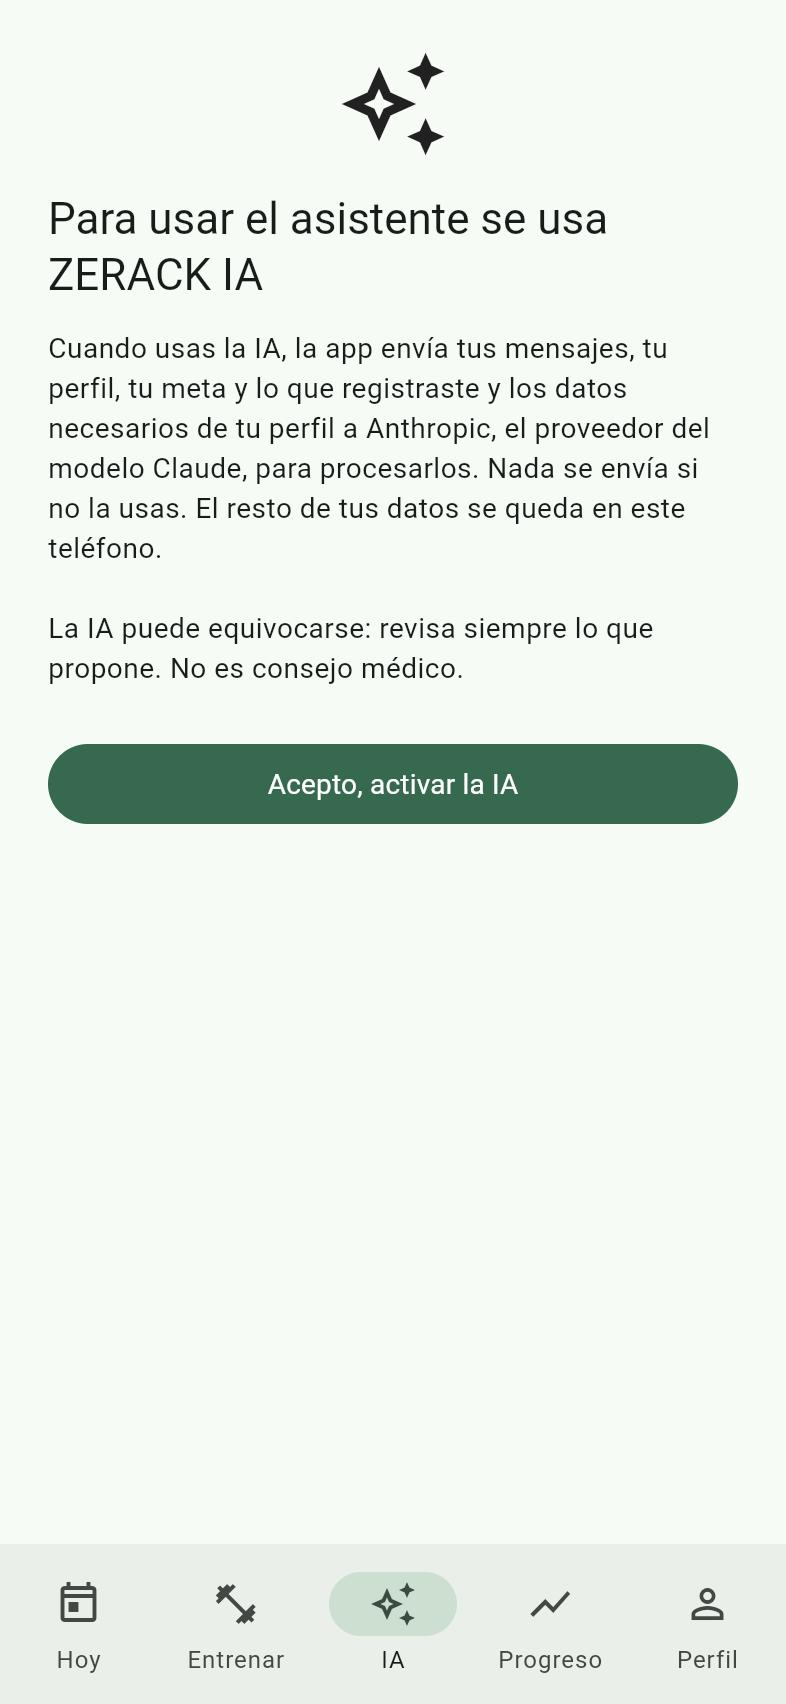
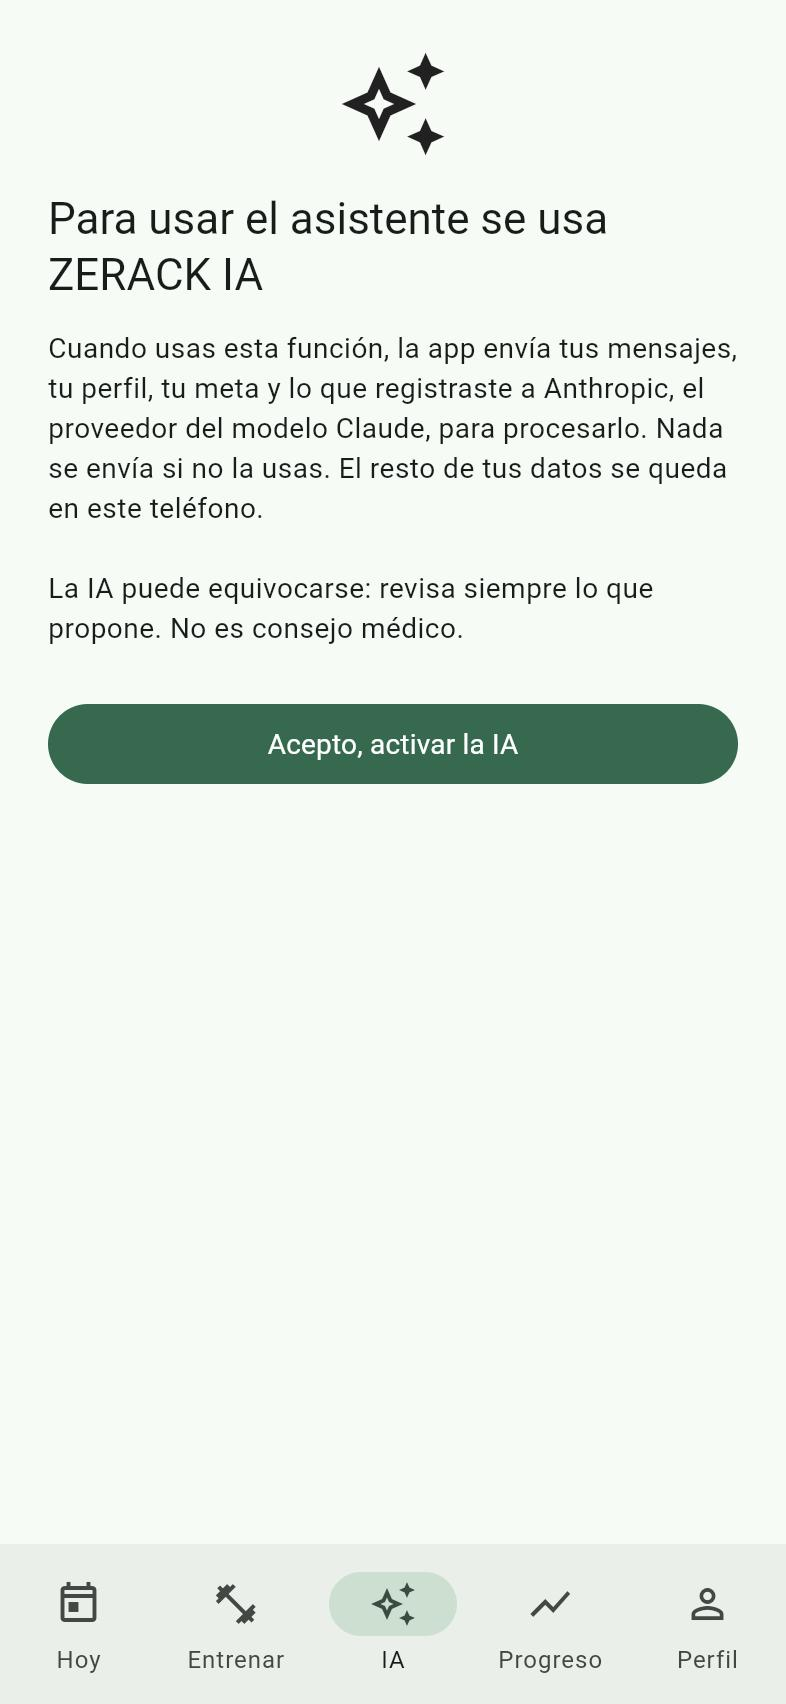
README: capturas en iPhone y Samsung y enlace a la versión web

Changed region(s): [[0.0611, 0.1866, 0.9466, 0.4977]]

diff --git a/README.md b/README.md
@@ -10,6 +10,13 @@ publicada**.
 > trata enfermedades** y no sustituye a un profesional de la salud. Si sientes
 > dolor en el pecho, mareo o falta de aire anormal, detente y busca atención.
 
+**Pruébala ya:** https://itzjk.github.io/zerack-fit/ (en iPhone ábrela en Safari →
+Compartir → "Agregar a inicio"). APK de Android en
+[Releases](https://github.com/itzjk/zerack-fit/releases).
+
+![iPhone](docs/screenshots/iphone.jpg)
+![Samsung](docs/screenshots/samsung.jpg)
+
 ## Qué hace
 
 **Hoy**
